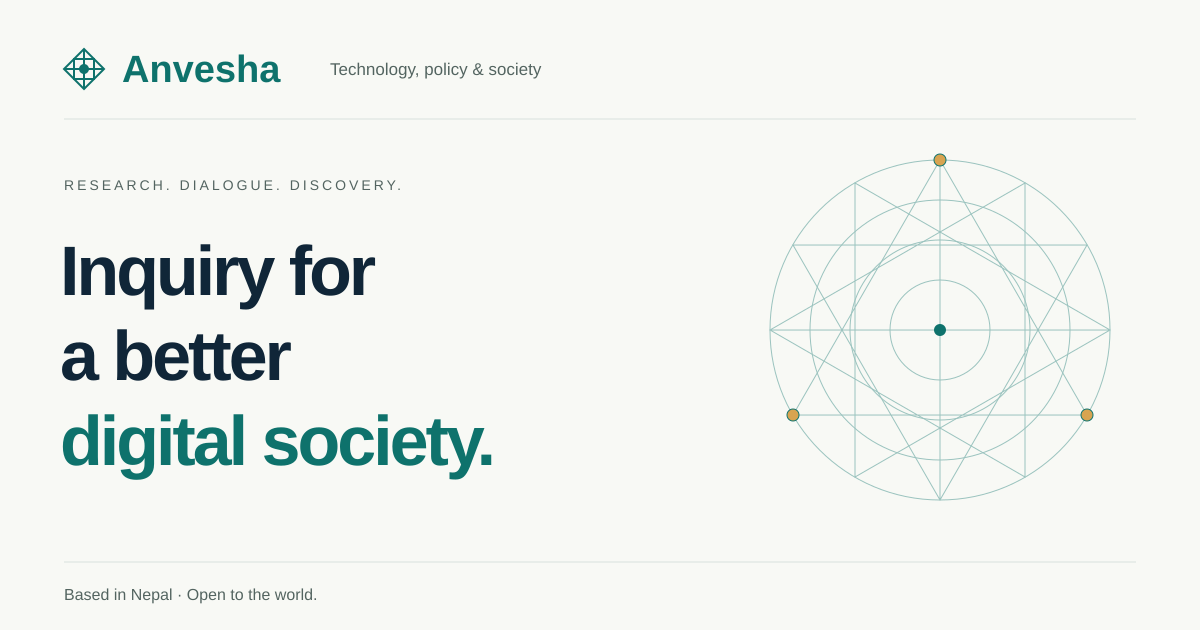
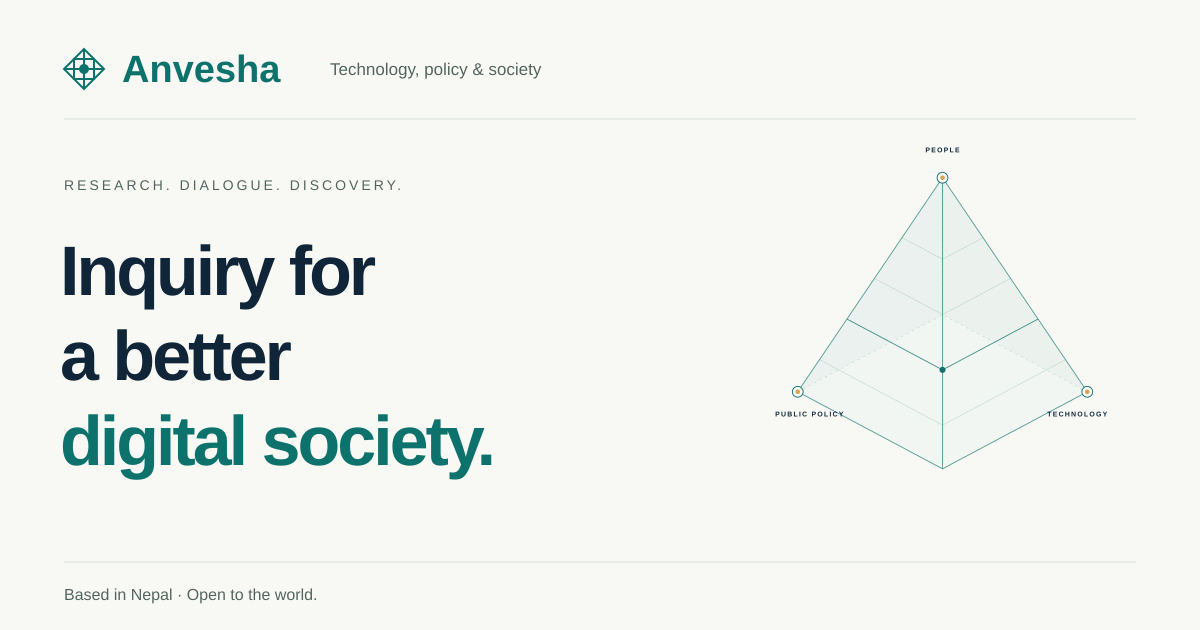
feat: update visual assets and configurations for Anvesha branding

diff --git a/playwright.config.ts b/playwright.config.ts
@@ -1,18 +1,19 @@
 import { defineConfig } from '@playwright/test';
+const previewPort = 4322;
 export default defineConfig({
   testDir: './tests',
   testMatch: '**/*.spec.ts',
   workers: 2,
   use: {
-    baseURL: 'http://127.0.0.1:4321',
+    baseURL: `http://127.0.0.1:${previewPort}`,
     launchOptions: {
       executablePath: process.env.CHROME_PATH || undefined,
       args: ['--no-sandbox'],
     },
   },
   webServer: {
-    command: 'npm run preview -- --port 4321 --ignore-lock',
-    url: 'http://127.0.0.1:4321',
-    reuseExistingServer: !process.env.CI,
+    command: `npm run preview -- --port ${previewPort} --ignore-lock`,
+    url: `http://127.0.0.1:${previewPort}`,
+    reuseExistingServer: false,
   },
 });

diff --git a/README.md b/README.md
@@ -7,11 +7,14 @@ A lightweight editorial website for the **Anvesha**, a Nepal-based initiative. B
 Use **Node 22.23.4 or newer** and npm 9.6.5 or newer. `.nvmrc` pins the tested Node version.
 
 ```sh
-nvm use                  # optional, if you use nvm
+nvm install              # install the version pinned in .nvmrc
+nvm use                  # select it in this terminal
 npm ci
 cp .env.example .env
 npm run dev
 ```
+
+If you use a different Node version manager, select Node 22.23.4 or newer before running these commands. Existing terminals keep their selected Node version until you run `nvm use` or open a new terminal.
 
 Open `http://127.0.0.1:4321`. No service credentials are needed. On npm versions that restrict dependency scripts, the committed `allowScripts` entry permits esbuild’s platform setup. Never approve unfamiliar scripts without inspection.
 
@@ -27,7 +30,7 @@ npm run preview          # Preview the production build
 npm run test:browser     # Responsive, axe accessibility and interaction tests
 ```
 
-Browser tests use Playwright’s Chromium by default. Run `npx playwright install chromium` once, or set `CHROME_PATH` to an installed Chrome executable. The test runner starts the production preview automatically; build first. Generated screenshots and reports are ignored by Git.
+Browser tests use Playwright’s Chromium by default. Run `npx playwright install chromium` once, or set `CHROME_PATH` to an installed Chrome executable. The test runner starts its own production preview on port 4322; build first. Keep that port free. It does not reuse your development server, so development-toolbar elements cannot affect the production checks. Generated screenshots and reports are ignored by Git.
 
 ## Structure and extension
 
@@ -97,3 +100,7 @@ English uses British spelling. Keep future translations in locale-specific conte
 ## Quality and launch status
 
 See [QA.md](QA.md) for measured results and limitations, [FACTS.md](FACTS.md) for the verification register and [LAUNCH_CHECKLIST.md](LAUNCH_CHECKLIST.md) for outstanding founder decisions. This repository is a functioning local website; public launch depends on verified contact information, domain, hosting and content/legal review.
+
+## Visual restraint
+
+Use typography, spacing, fine rules and standard lists for supporting content. The original pyramid illustration in `src/assets/commons-pyramid.svg` is reserved for the homepage hero and social preview; `npm run assets:og` keeps those in sync. Keep it static and lightly tinted. Avoid repeating the shape in headings, numbered lists, bullets or calls to action, and do not use its levels to imply status or impact.

diff --git a/QA.md b/QA.md
@@ -53,3 +53,11 @@ The public name, wordmark, primary line and supporting copy were updated to Anve
 - Generated-site checks passed for 11 HTML pages and 332 local references.
 - Source and production-output scans found no previous public-name or old primary-tagline references. Desktop/mobile homepage screenshots and the regenerated social preview were visually reviewed.
 - Lighthouse figures above describe the initial build, before the rename; performance was not remeasured for this branding edit.
+
+## Current visual direction
+
+The homepage and social image share one original, simplified pyramid illustration. Supporting pages use plain numbers, conventional list bullets, fine rules and clear spacing. Decorative header, card, timeline and collaboration triangles have been removed, together with their unused component and styles. No dependencies or client scripts were added.
+
+Browser tests use their own production preview on port 4322 rather than a running development server. Keep that port free. The Lighthouse figures above remain initial-build observations, not measurements of subsequent visual revisions.
+
+Validation of the simplified design: production build, lint, formatting and Astro/TypeScript checks passed. All 11 browser checks passed, including five responsive widths, mobile/desktop accessibility scans, keyboard/no-JavaScript navigation and enlarged-text reflow. Generated-site checks passed for 11 pages and 332 local references. The desktop homepage was visually reviewed. No new Lighthouse measurement was taken.
